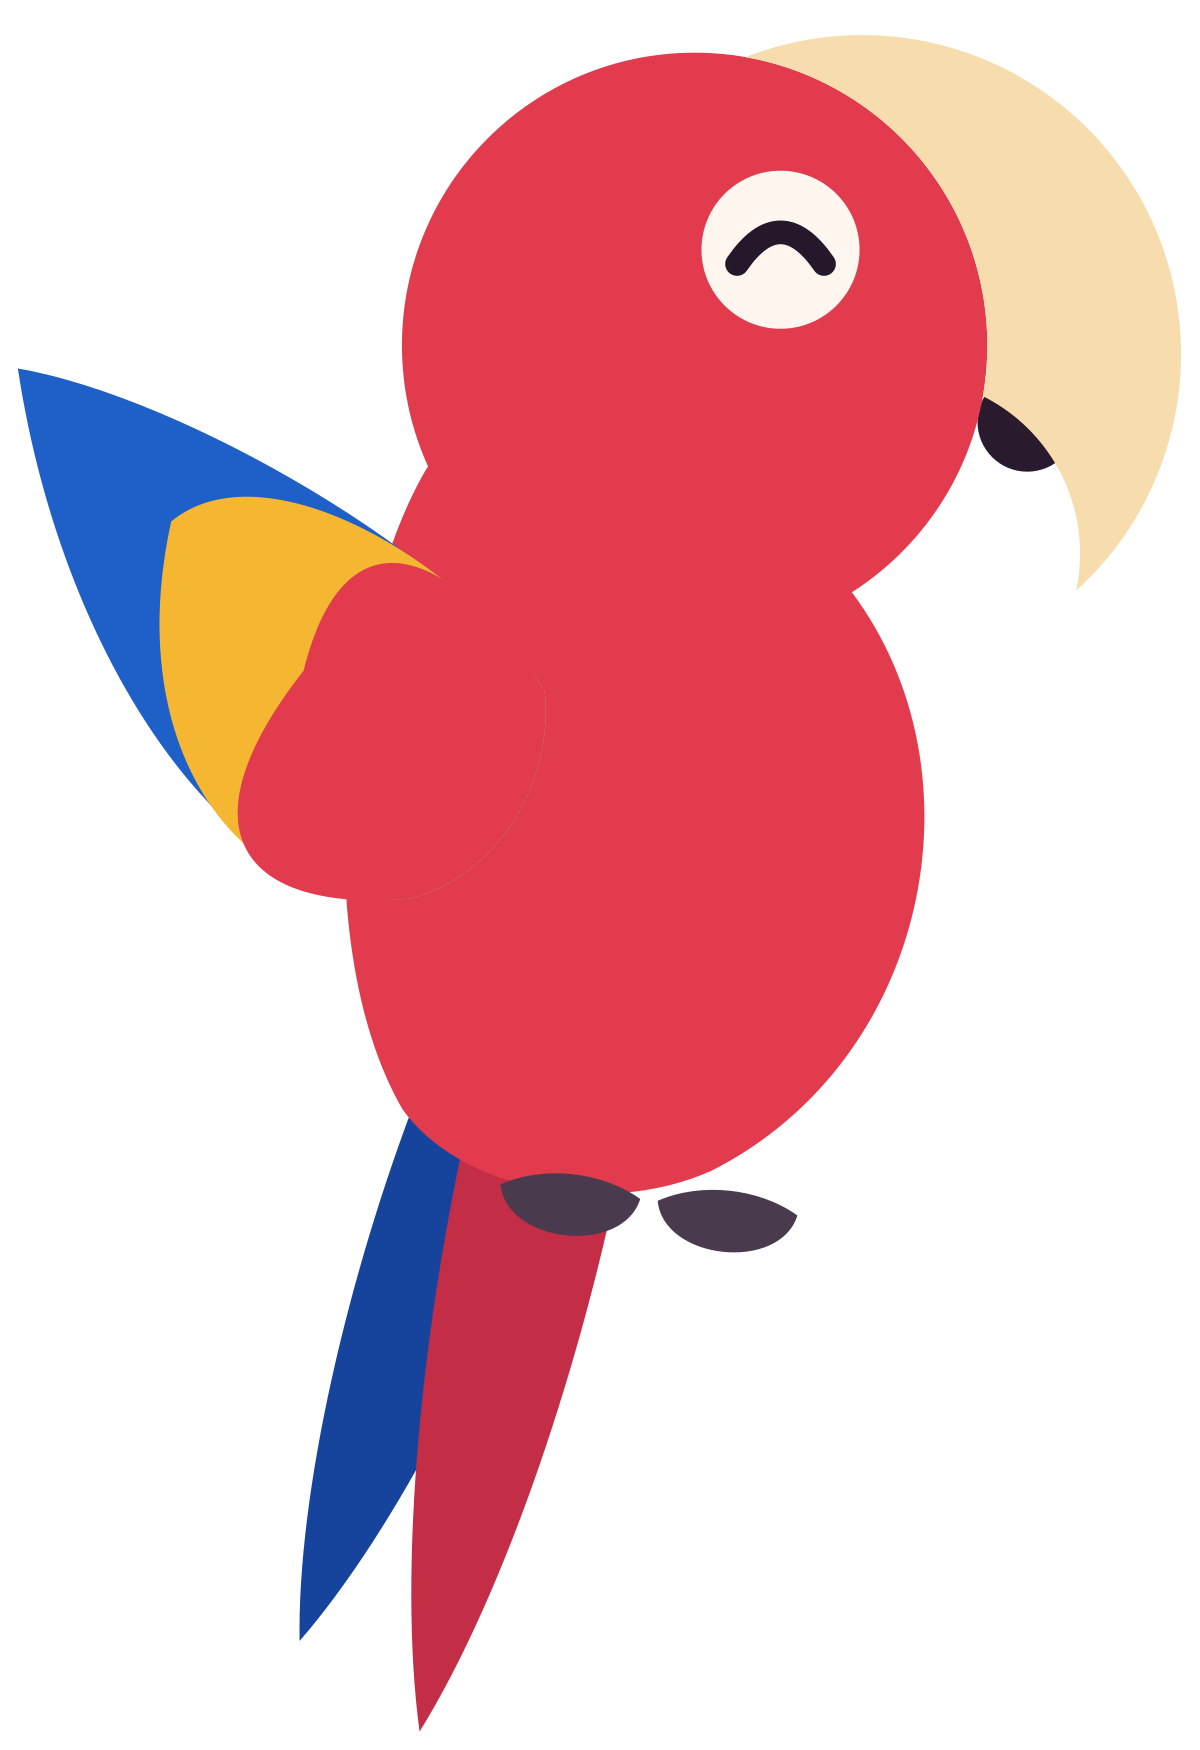
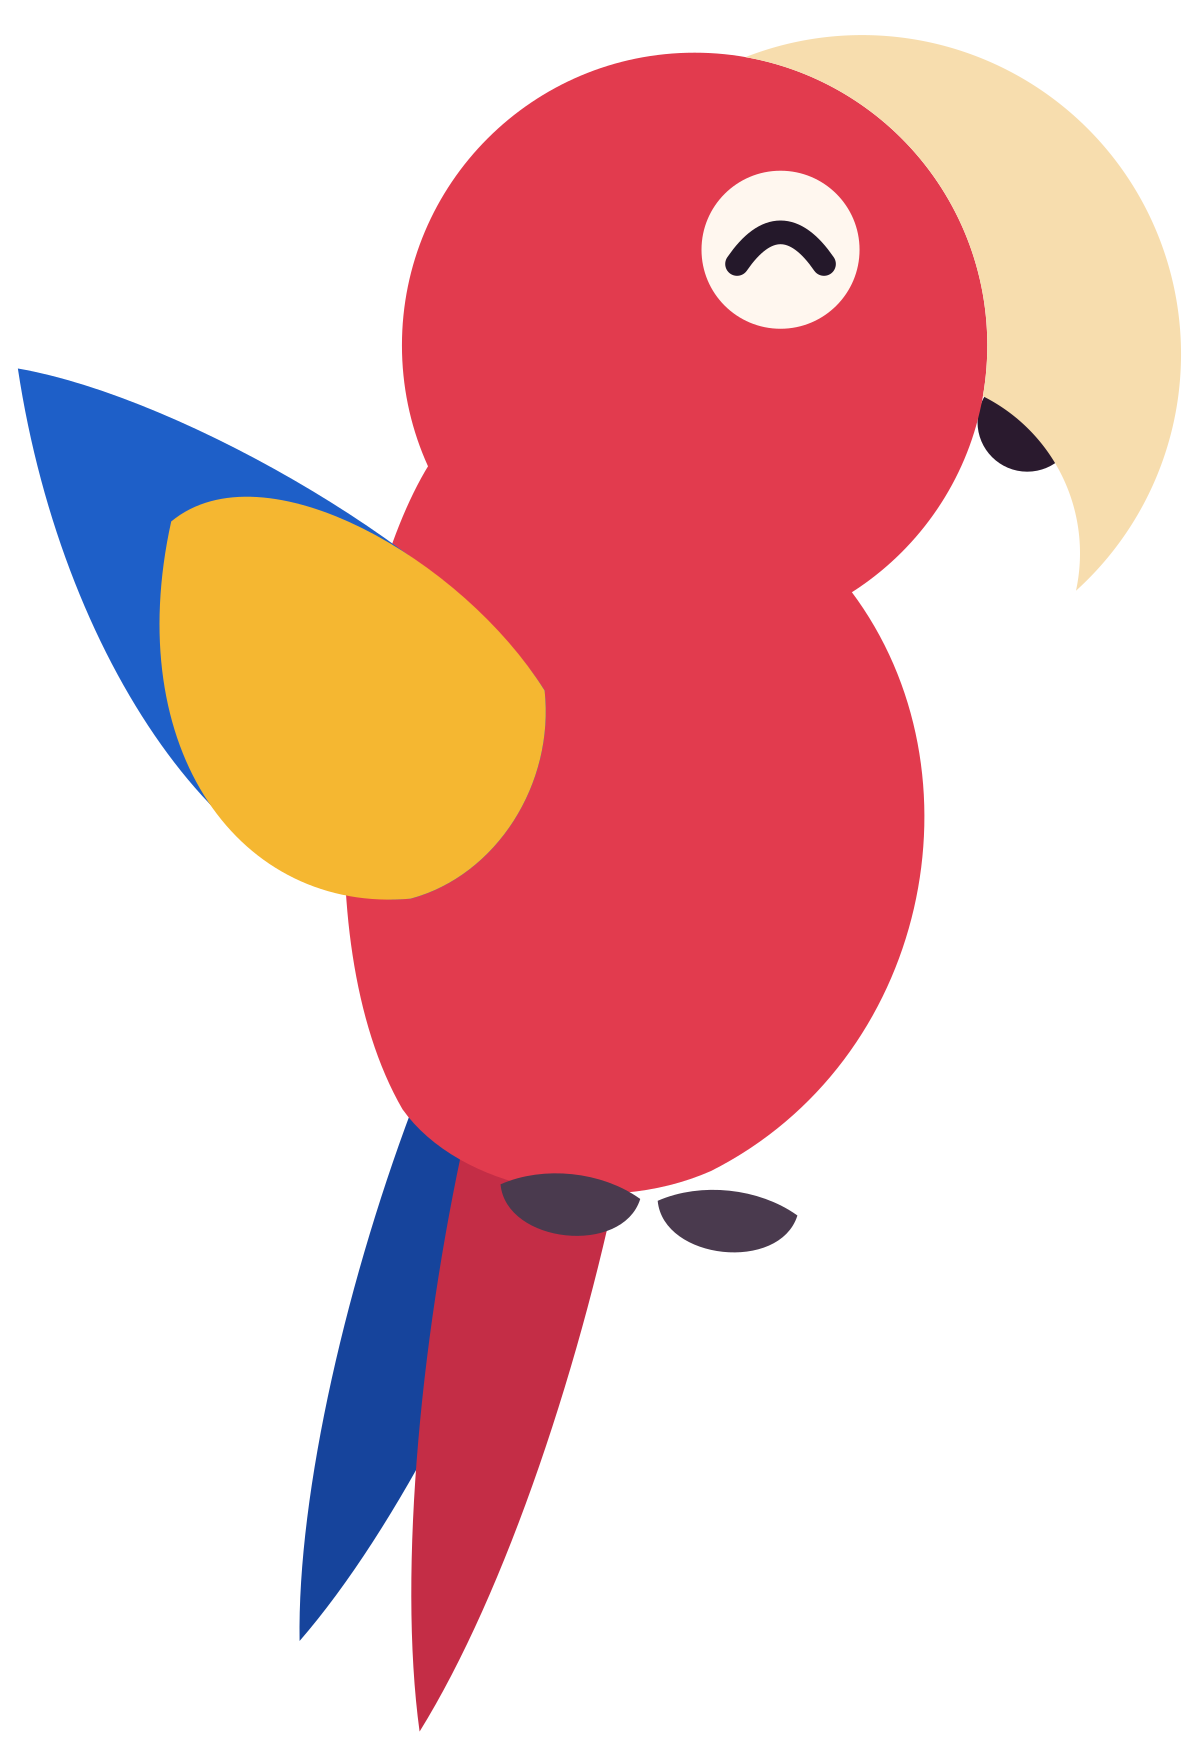
Brand: cheer pose without the stubby shoulder; QA cycle in the log
Claude-Session: https://claude.ai/code/session_01DAx8mBB8a87Zay3pwQevHJ

Changed region(s): [[0.185, 0.3086, 0.4625, 0.5246]]

diff --git a/tools/brand/ara.py b/tools/brand/ara.py
@@ -194,7 +194,9 @@ def _wing(sp, raised=False):
         if raised:
             pts = [_rot(p, piv, 110) for p in pts]
         return _path(sp, pts[0], [pts[1:4], pts[4:7], pts[7:10]], fill)
-    return layer((-0.62, 3.05), MACAW, 1.0) + layer((-0.38, 2.35), GOLD, 0.68) + layer((-0.12, 1.72), POMEGRANATE, 0.35)
+    wing = layer((-0.62, 3.05), MACAW, 1.0) + layer((-0.38, 2.35), GOLD, 0.68)
+    # Folded, a red shoulder covers the wing's root; raised, it would look like a stubby arm.
+    return wing if raised else wing + layer((-0.12, 1.72), POMEGRANATE, 0.35)
 
 
 # Poses: body lean (degrees), head tilt, eye, where the pupil looks, wing raised.

diff --git a/DEVELOPMENT_LOG.md b/DEVELOPMENT_LOG.md
@@ -36,6 +36,13 @@ The welcome screen already explains the name ("you'll be saying კი: yes!").
 - QA also photographs the home screen (light, dark) and a search with no results.
 
 ### Runs and refinement cycles
+- **QA run** (#44031006043, iPhone 17 Pro, Xcode 26.3): compiled first time, 0 warnings,
+  142/142 logic checks, 5/5 UI tests, 79 pictures. Looked at: the icon on the real home
+  screen (light and dark wallpaper; iOS 26 adds its glass edge; it stays the light icon
+  unless the owner picks the Dark style), welcome (hello), Lesson complete (cheer), "Nothing
+  found" (think), Review, Profile. All drawn crisp from the vector PDFs.
+- **Cycle 1** (from those pictures): the raised wing's red shoulder looked like a stubby arm
+  on Lesson complete. → Removed in the cheer pose (checked in the rendered master).
 
 ## KART #2 · 16/11/26 · Use in Georgia (branch `claude/use-in-georgia`, from `claude/full-app`)
 
